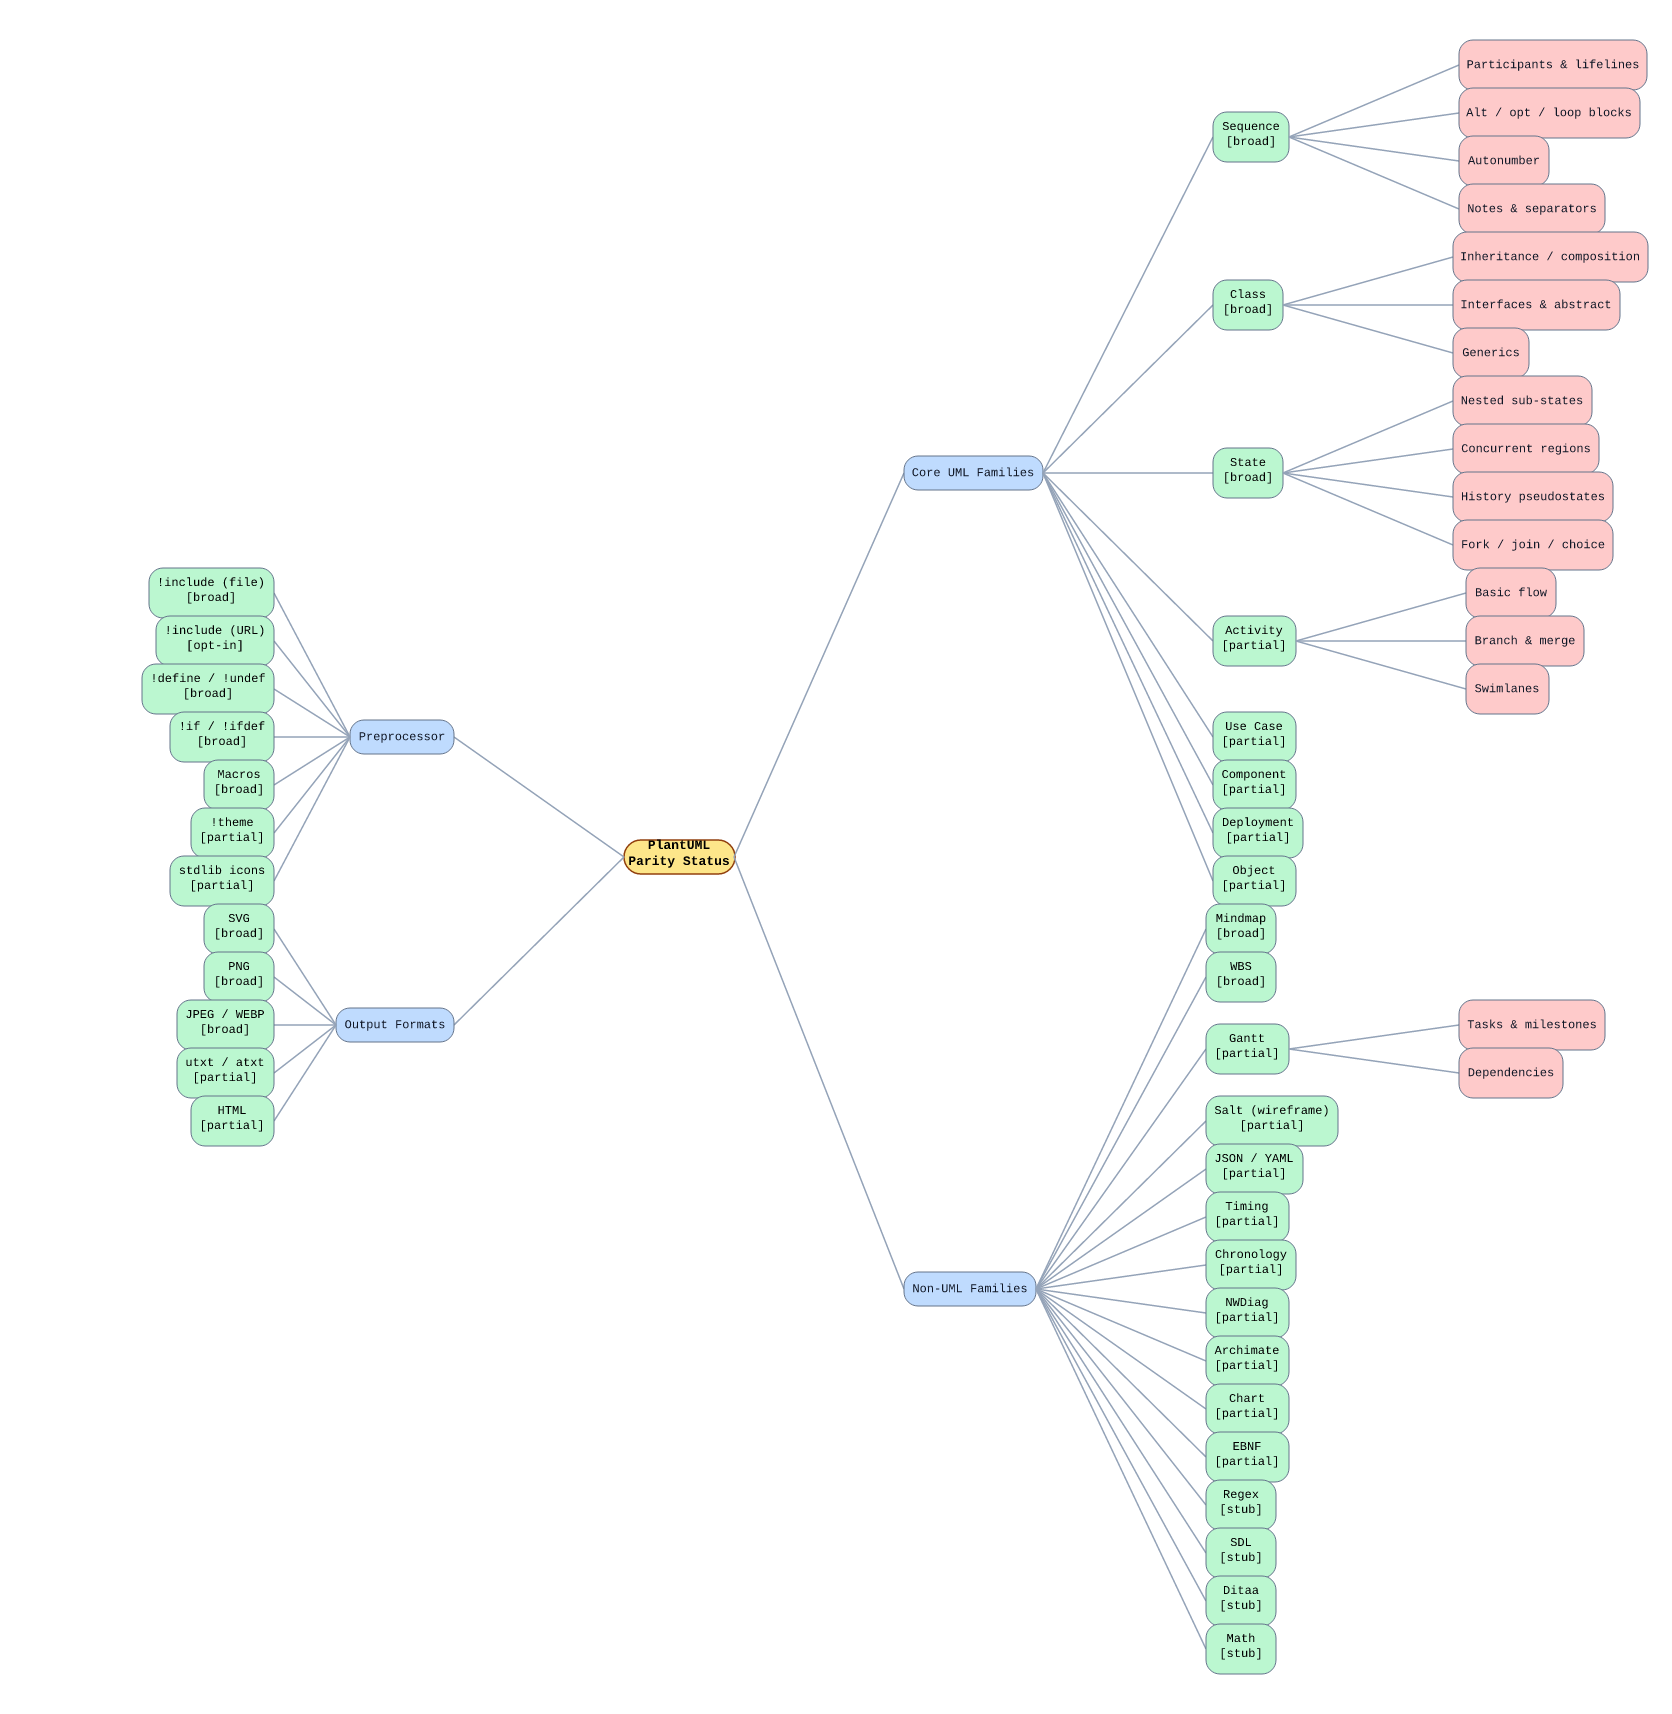
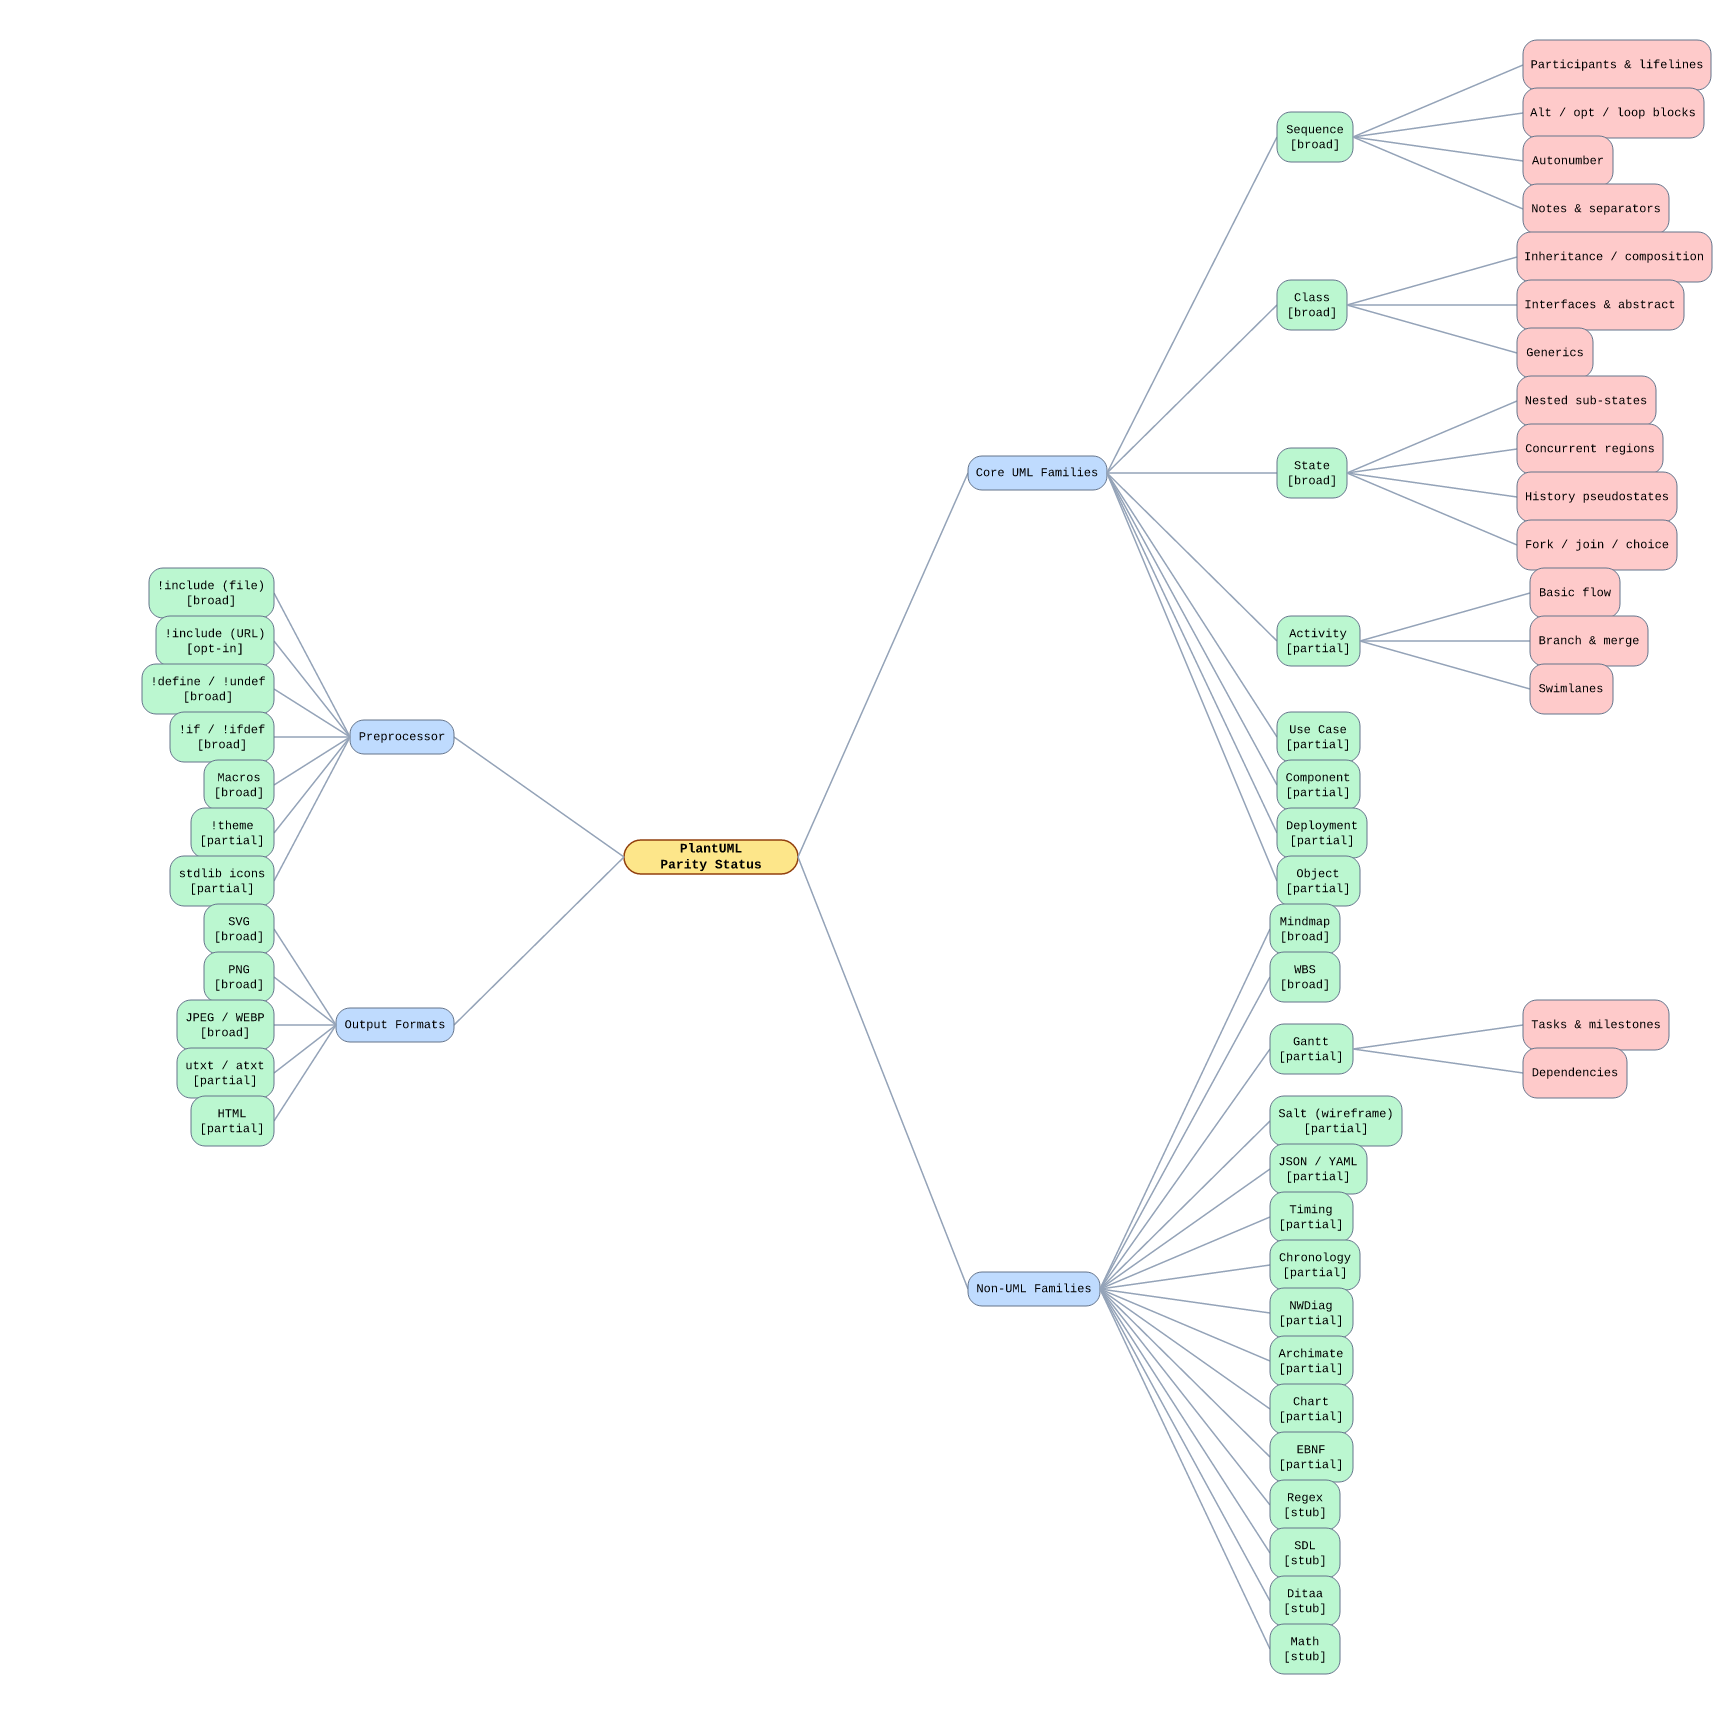
fix(normalize): stop duplicate use-case nodes from relation endpoints
Only materialize implicit actors/use cases when relations use :actor:
or (usecase) syntax, and match namespace-qualified names so packaged
diagrams are not duplicated. Restore regressed example artifacts.

Refs #938

diff --git a/src/normalize/family.rs b/src/normalize/family.rs
@@ -318,9 +318,13 @@ pub(super) fn normalize_stub_family(document: Document) -> Result<FamilyDocument
             }
             StatementKind::FamilyRelation(rel) => {
                 if family_kind == DiagramKind::UseCase {
-                    ensure_usecase_relation_endpoint(&mut nodes, &rel.from);
-                    ensure_usecase_relation_endpoint(&mut nodes, &rel.to);
                     let mut rel = rel;
+                    if usecase_relation_uses_bracket_syntax(&rel.from) {
+                        ensure_usecase_relation_endpoint(&mut nodes, &rel.from);
+                    }
+                    if usecase_relation_uses_bracket_syntax(&rel.to) {
+                        ensure_usecase_relation_endpoint(&mut nodes, &rel.to);
+                    }
                     rel.from = clean_usecase_relation_endpoint(&rel.from);
                     rel.to = clean_usecase_relation_endpoint(&rel.to);
                     last_relation = Some((rel.from.clone(), rel.to.clone()));
@@ -705,6 +709,12 @@ fn clean_usecase_relation_endpoint(endpoint: &str) -> String {
     usecase_endpoint_node_spec(endpoint).0
 }
 
+fn usecase_relation_uses_bracket_syntax(endpoint: &str) -> bool {
+    let trimmed = endpoint.trim();
+    (trimmed.starts_with(':') && trimmed.ends_with(':'))
+        || (trimmed.starts_with('(') && trimmed.ends_with(')'))
+}
+
 fn ensure_usecase_relation_endpoint(nodes: &mut Vec<FamilyNode>, endpoint: &str) {
     let trimmed = endpoint.trim();
     if trimmed.is_empty() {
@@ -742,7 +752,10 @@ fn usecase_endpoint_matches_node(endpoint: &str, node: &FamilyNode) -> bool {
         return true;
     }
     let (name, _) = usecase_endpoint_node_spec(trimmed);
-    node.name == name || node.alias.as_deref() == Some(name.as_str())
+    if node.name == name || node.alias.as_deref() == Some(name.as_str()) {
+        return true;
+    }
+    node.name.ends_with(&format!("::{name}"))
 }
 
 fn usecase_endpoint_node_spec(endpoint: &str) -> (String, FamilyNodeKind) {